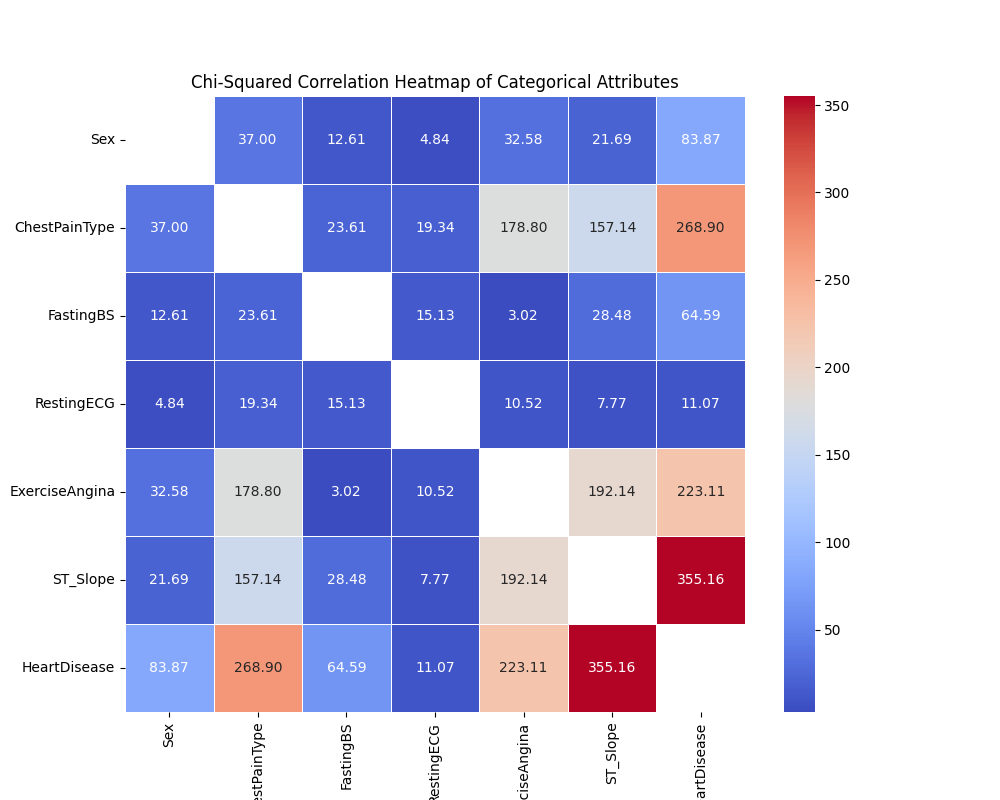
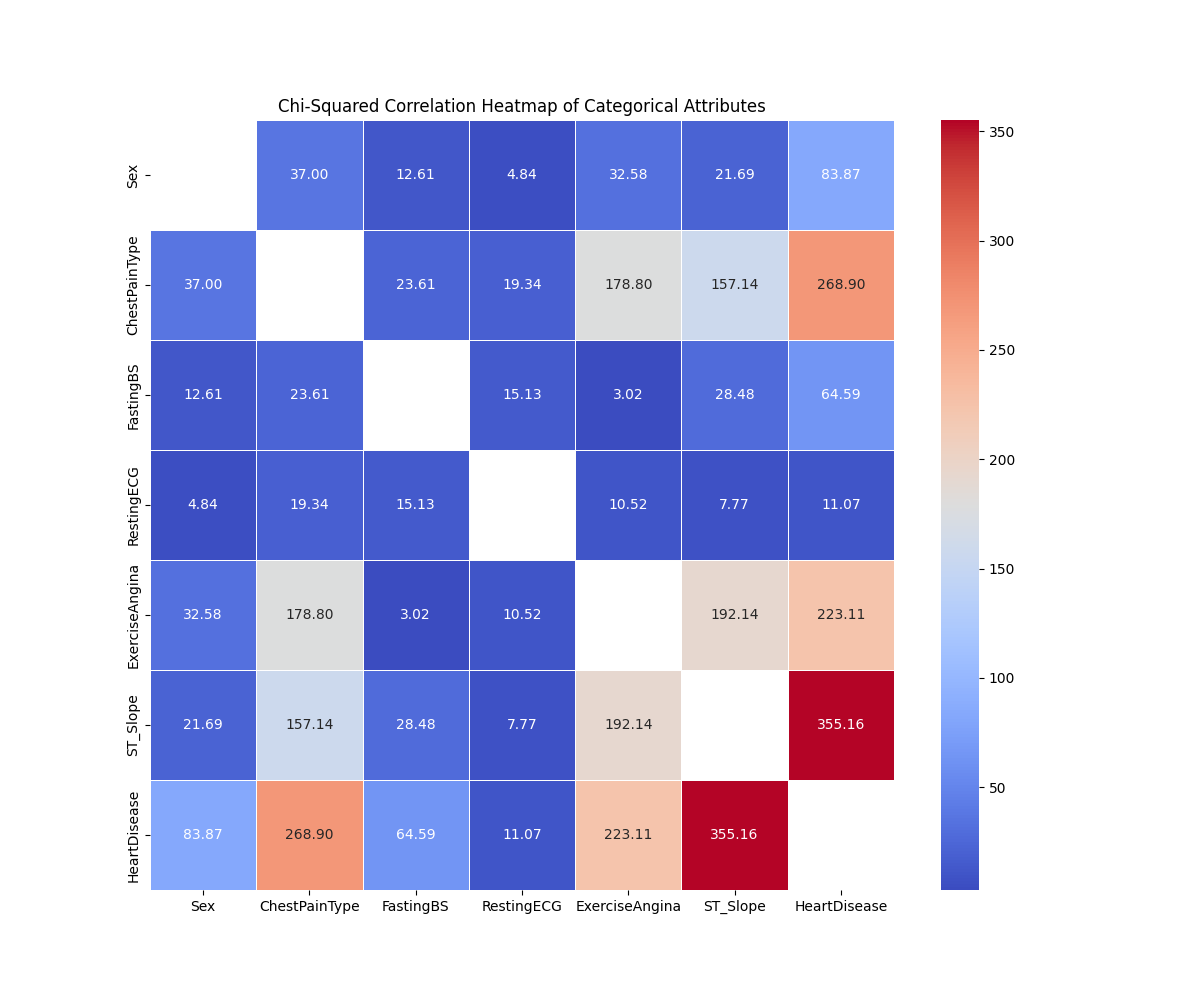
updated PCA directions

diff --git a/Project/heart_project.py b/Project/heart_project.py
@@ -142,9 +142,10 @@ def pca_analysis(X, y, attributeNames):  #returns nothing
     c = ['r','g','b']
     bw = .11
     r = np.arange(1,M+1)
+    plt.figure(figsize=(10, 8))
     for i in pcs:
         plt.bar(r+i*bw, V[:,i], width=bw)
-    plt.xticks(r+bw, attributeNames_cont, rotation=45)
+    plt.xticks(r+bw, attributeNames_cont, rotation=30)
     plt.xlabel('Attributes')
     plt.ylabel('Component coefficients')
     plt.legend(legendStrs)

diff --git a/Project/scatter_plots.py b/Project/scatter_plots.py
@@ -142,7 +142,7 @@ for attribute1 in cat_attributes:
             chi2_stats.at[attribute1, attribute2] = chi2
 
 # Create a heatmap of chi-squared statistics
-plt.figure(figsize=(10, 8))
+plt.figure(figsize=(12, 10))
 sns.heatmap(chi2_stats.astype(float), annot=True, cmap="coolwarm", fmt=".2f", linewidths=0.5)
 plt.title('Chi-Squared Correlation Heatmap of Categorical Attributes')
 #plt.show()
